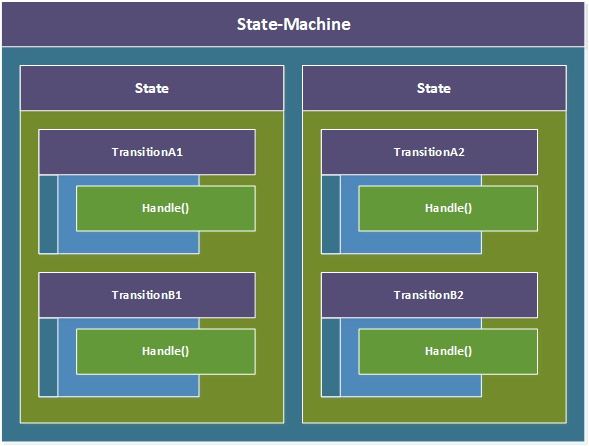
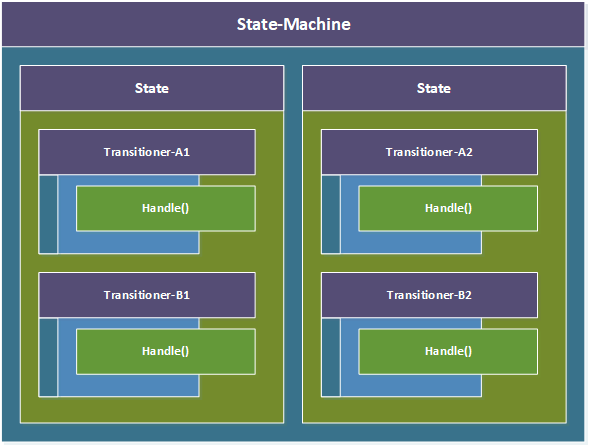
renamed transition to transitioner

diff --git a/St8-ment/State.cs b/St8-ment/State.cs
@@ -7,9 +7,9 @@ namespace St8_ment
         where TContext : IStateContext<TContext>
         where TSelf : class, IState<TContext>
     {
-        private readonly IStateTransitionProvider provider;
+        private readonly IStateTransitionerProvider provider;
 
-        protected State(TContext context, IStateTransitionProvider provider)
+        protected State(TContext context, IStateTransitionerProvider provider)
         {
             this.Context = context;
             this.provider = provider;
@@ -21,13 +21,13 @@ namespace St8_ment
 
         public async Task<bool> Accept<TAction>(TAction action, CancellationToken cancellationToken) where TAction : IAction
         {
-            var transition = this.provider.Find<StateTransaction<TAction, TSelf>>();
-            if (transition is null)
+            var transitioner = this.provider.Find<StateTransaction<TAction, TSelf>>();
+            if (transitioner is null)
             {
                 return false;
             }
 
-            await transition.Handle(new StateTransaction<TAction, TSelf>(action, this.GetSelf()), cancellationToken);
+            await transitioner.Handle(new StateTransaction<TAction, TSelf>(action, this.GetSelf()), cancellationToken);
             return true;
         }
     }

diff --git a/St8-ment/StateTransitionerProvider.cs b/St8-ment/StateTransitionerProvider.cs
@@ -1,0 +1,27 @@
+using System;
+using System.Collections.Generic;
+
+namespace St8_ment
+{
+    public class StateTransitionerProvider<TState, TContext> : IStateTransitionerProvider 
+        where TState : class, IState<TContext>
+        where TContext : IStateContext<TContext>
+    {
+        private readonly IDictionary<int, Func<IStateTransitionerMarker>> transitionerRegistrations;
+
+        public StateTransitionerProvider(IDictionary<int, Func<IStateTransitionerMarker>> transitionRegistrations)
+        {
+            this.transitionerRegistrations = transitionRegistrations;
+        }
+
+        public IStateTransitioner<TTransaction> Find<TTransaction>() where TTransaction : ITransaction
+        {
+            if (!this.transitionerRegistrations.TryGetValue(typeof(TTransaction).GetHashCode(), out var value) || !(value.Invoke() is IStateTransitioner<TTransaction> transition))
+            {
+                return null;
+            }
+
+            return transition;
+        }
+    }
+}

diff --git a/St8-ment.DependencyInjection/ActionConfiguration.cs b/St8-ment.DependencyInjection/ActionConfiguration.cs
@@ -17,10 +17,10 @@ namespace St8_ment.DependencyInjection
             this.actions = actions;
         }
 
-        public void Transition<TTransition>() where TTransition : class, IStateTransition<StateTransaction<TAction, TState>>
+        public void Transition<TTransitioner>() where TTransitioner : class, IStateTransitioner<StateTransaction<TAction, TState>>
         {
-            this.services.AddTransient<IStateTransition<StateTransaction<TAction, TState>>, TTransition>();
-            this.actions.Add(typeof(StateTransaction<TAction, TState>).GetHashCode(), typeof(IStateTransition<StateTransaction<TAction, TState>>));
+            this.services.AddTransient<IStateTransitioner<StateTransaction<TAction, TState>>, TTransitioner>();
+            this.actions.Add(typeof(StateTransaction<TAction, TState>).GetHashCode(), typeof(IStateTransitioner<StateTransaction<TAction, TState>>));
         }
     }
 }

diff --git a/St8-ment/StateTransitioner.cs b/St8-ment/StateTransitioner.cs
@@ -3,14 +3,14 @@ using System.Threading.Tasks;
 
 namespace St8_ment
 {
-    public abstract class StateTransition<TState, TContext, TAction> : IStateTransition<StateTransaction<TAction, TState>> 
+    public abstract class StateTransitioner<TState, TContext, TAction> : IStateTransitioner<StateTransaction<TAction, TState>> 
         where TAction : IAction
         where TState : class, IState
         where TContext : IStateContext<TContext>
     {
         private readonly IStateMachine<TContext> stateMachine;
 
-        protected StateTransition(IStateMachine<TContext> stateMachine) => this.stateMachine = stateMachine;
+        protected StateTransitioner(IStateMachine<TContext> stateMachine) => this.stateMachine = stateMachine;
 
         protected abstract Task Transition(StateTransaction<TAction, TState> action, IStateMachine<TContext> stateMachine, CancellationToken cancellationToken);
 

diff --git a/St8-ment.Example.Console/Program.cs b/St8-ment.Example.Console/Program.cs
@@ -12,8 +12,8 @@ namespace St8_ment.Example.Console
             var stateMachine = new ServiceCollection()
                 .AddStateMachine<ExampleContext>(builder =>
                 {
-                    builder.For<InitialState>(configurator => configurator.On<StartAction>().Transition<StartTransition>());
-                    builder.For<ProcessingState>(configurator => configurator.On<StopAction>().Transition<StopTransition>());
+                    builder.For<InitialState>(configurator => configurator.On<StartAction>().Transition<StartTransitioner>());
+                    builder.For<ProcessingState>(configurator => configurator.On<StopAction>().Transition<StopTransitioner>());
                     builder.For<DoneState>();
                 })
                 .BuildServiceProvider()

diff --git a/St8-ment.Example.Console/Transitions/StopTransition.cs b/St8-ment.Example.Console/Transitions/StopTransition.cs
@@ -3,9 +3,9 @@ using System.Threading.Tasks;
 
 namespace St8_ment.Example.Console
 {
-    public class StopTransition : StateTransition<ProcessingState, ExampleContext, StopAction>
+    public class StopTransitioner : StateTransitioner<ProcessingState, ExampleContext, StopAction>
     {
-        public StopTransition(IStateMachine<ExampleContext> stateMachine) : base(stateMachine) { }
+        public StopTransitioner(IStateMachine<ExampleContext> stateMachine) : base(stateMachine) { }
 
         protected override Task Transition(StateTransaction<StopAction, ProcessingState> transaction, IStateMachine<ExampleContext> stateMachine, CancellationToken cancellationToken)
         {

diff --git a/St8-ment.Example.Console/Transitions/StartTransition.cs b/St8-ment.Example.Console/Transitions/StartTransition.cs
@@ -3,9 +3,9 @@ using System.Threading.Tasks;
 
 namespace St8_ment.Example.Console
 {
-    public class StartTransition : StateTransition<InitialState, ExampleContext, StartAction>
+    public class StartTransitioner : StateTransitioner<InitialState, ExampleContext, StartAction>
     {
-        public StartTransition(IStateMachine<ExampleContext> stateMachine) : base(stateMachine) { }
+        public StartTransitioner(IStateMachine<ExampleContext> stateMachine) : base(stateMachine) { }
 
         protected override Task Transition(StateTransaction<StartAction, InitialState> transaction, IStateMachine<ExampleContext> stateMachine, CancellationToken cancellationToken)
         {

diff --git a/St8-ment.DependencyInjection/StateConfiguration.cs b/St8-ment.DependencyInjection/StateConfiguration.cs
@@ -29,7 +29,7 @@ namespace St8_ment.DependencyInjection
                     {
                         return new StateTransitionProvider<TState, TContext>(actions.ToDictionary(
                             pair => pair.Key,
-                            pair => new Func<IStateTransitionMarker>(() => provider.GetService(pair.Value) as IStateTransitionMarker)));
+                            pair => new Func<IStateTransitionerMarker>(() => provider.GetService(pair.Value) as IStateTransitionerMarker)));
                     }
 
                     return x.ParameterType != typeof(TContext) 

diff --git a/St8-ment/IStateTransitioner.cs b/St8-ment/IStateTransitioner.cs
@@ -3,9 +3,9 @@ using System.Threading.Tasks;
 
 namespace St8_ment
 {
-    public interface IStateTransitionMarker { }
+    public interface IStateTransitionerMarker { }
 
-    public interface IStateTransition<in TTransaction> : IStateTransitionMarker where TTransaction : ITransaction
+    public interface IStateTransitioner<in TTransaction> : IStateTransitionerMarker where TTransaction : ITransaction
     {
         Task Handle(TTransaction action, CancellationToken cancellationToken);
     }

diff --git a/St8-ment.Example.Console/States/ProcessingState.cs b/St8-ment.Example.Console/States/ProcessingState.cs
@@ -2,7 +2,7 @@
 {
     public class ProcessingState : State<ProcessingState, ExampleContext>
     {
-        public ProcessingState(ExampleContext context, IStateTransitionProvider provider) : base(context, provider)
+        public ProcessingState(ExampleContext context, IStateTransitionerProvider provider) : base(context, provider)
         {
             this.Name = "The processing state";
         }

diff --git a/St8-ment.Example.Console/States/InitialState.cs b/St8-ment.Example.Console/States/InitialState.cs
@@ -2,7 +2,7 @@
 {
     public class InitialState : State<InitialState, ExampleContext>
     {
-        public InitialState(ExampleContext context, IStateTransitionProvider provider) : base(context, provider)
+        public InitialState(ExampleContext context, IStateTransitionerProvider provider) : base(context, provider)
         {
             this.Name = "The initial state";
         }

diff --git a/St8-ment.Example.Console/States/DoneState.cs b/St8-ment.Example.Console/States/DoneState.cs
@@ -2,7 +2,7 @@
 {
     public class DoneState : State<DoneState, ExampleContext>
     {
-        public DoneState(ExampleContext context, IStateTransitionProvider provider) : base(context, provider)
+        public DoneState(ExampleContext context, IStateTransitionerProvider provider) : base(context, provider)
         {
             this.Name = "The processing state";
         }
